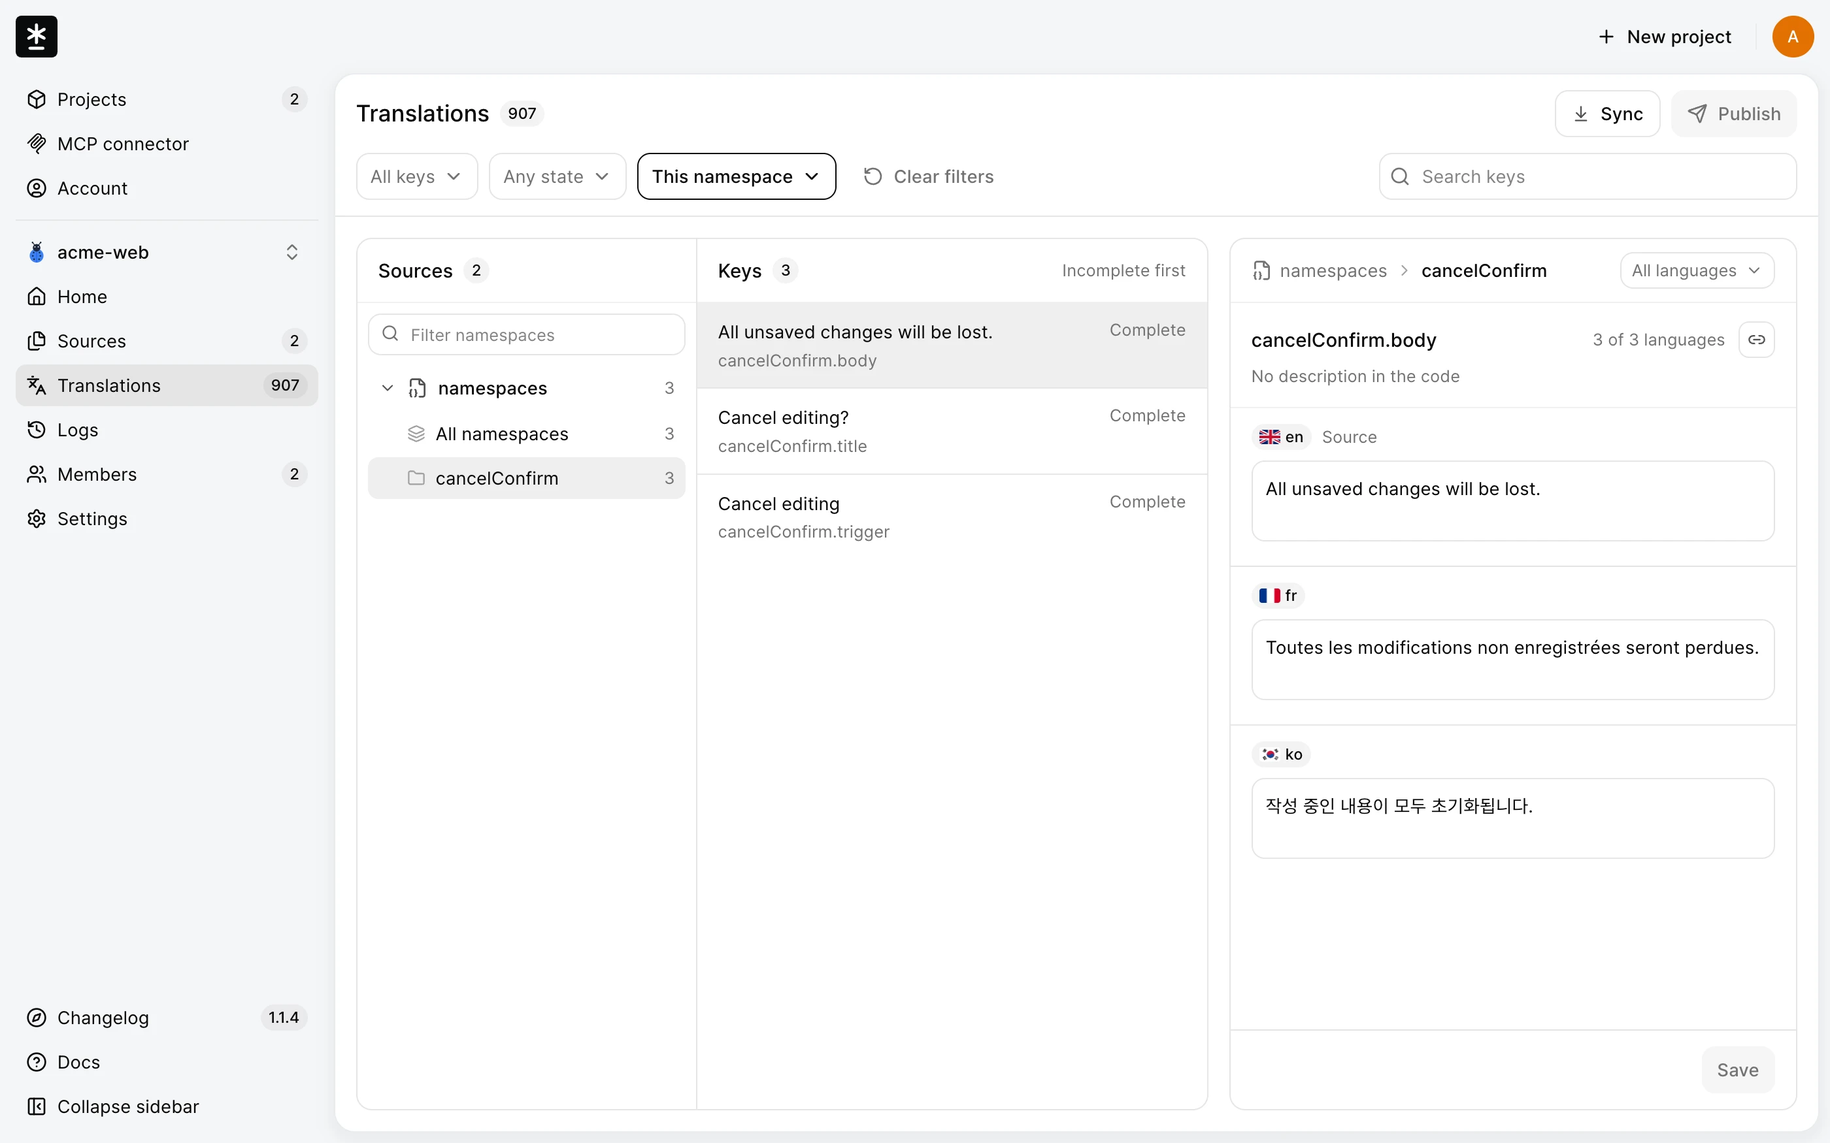
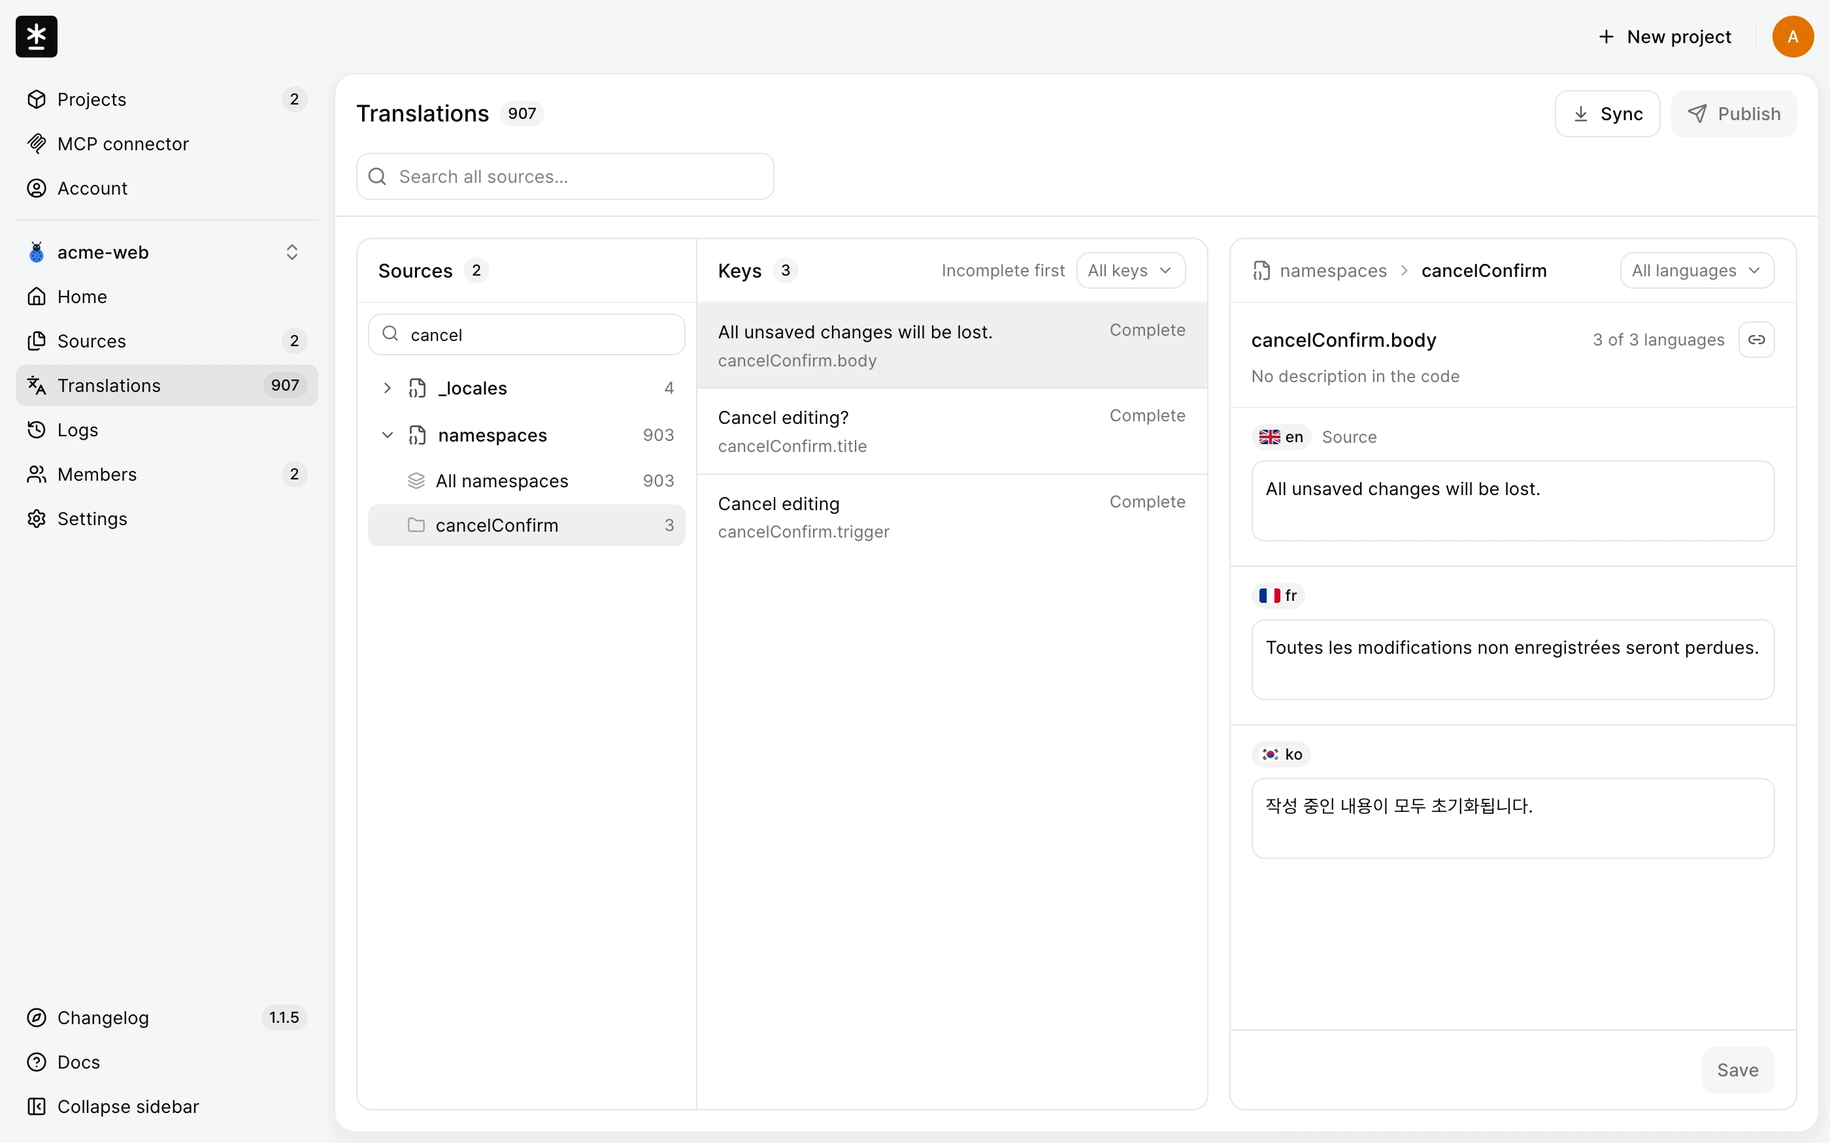
docs(guide): reshoot translation screen cuts for tree ranges and Status

diff --git a/guide/SHOOTING.md b/guide/SHOOTING.md
@@ -65,7 +65,7 @@
 | `/guide/add-sources.webp` | `setup/sources.md#add-sources` | OWNER | Add sources 모달 — 감지 파일 + 미리보기 + Base language(추가 안 함) |
 | `/guide/archive-card.webp` | `setup/archive.md#archive` | OWNER | Settings를 Archive project 카드까지 스크롤(누르지 않음) |
 | `/guide/accept-invitation.webp` | `translate/join.md#join` | EDITOR | 초대 수락 화면(`/invite/<token>`) — dev DB에 심은 초대 1건, 수락 안 함 |
-| `/guide/state-filter.webp` | `translate/edit.md#find-key` | EDITOR | Translations의 State 필터 메뉴 펼침 |
+| `/guide/state-filter.webp` | `translate/edit.md#find-key` | EDITOR | Translations — 키 목록 머리의 Status 필터 메뉴 펼침 |
 | `/guide/home-publish.webp` | `translate/publish.md#preview` | EDITOR | Home — 보낼 변경 1건, 켜진 Publish |
 | `/guide/publish-result.webp` | `translate/publish.md#result` | EDITOR | Publish 결과 `Nothing changed in the files`(GitHub 쓰기 없음) |
 | `/guide/home-paused.webp` | `sync/push.md#deferred` | OWNER | Home — To send 1 · repository updates held |
@@ -88,20 +88,20 @@
 | /guide/push-token-secret.webp | lib/onboarding/workflow.ts | 45d351ca4d9fc6cff70c84d0e784e6e992edba69 | 2560x1600 |
 | /guide/workflow-file.webp | components/settings/ci-card.tsx, components/onboarding/workflow-block.tsx, lib/onboarding/workflow.ts | 8dc8b8e40c8d03d1987042a2753dbd2b7a51a560, e099fcb70b6fca21b04b07c69217a0b2a0018f9e, 45d351ca4d9fc6cff70c84d0e784e6e992edba69 | 2560x1600 |
 | /guide/actions-policy.webp | lib/onboarding/workflow.ts, .github/actions/malmoi-i18n-push/action.yml | 45d351ca4d9fc6cff70c84d0e784e6e992edba69, 559ddc28bcd1c0fa8f4a1946dd15f7e8fcd0f03d | 2560x1600 |
-| /guide/translation-editor.webp | components/translations/workspace/key-list.tsx, components/translations/workspace/locale-panel.tsx | 15863c4d757cecd4c30a482ab7cd3ee1404d7cfb, 7c5ff2cf927ea605f00d572f1e0b1bafc09d0f21 | 2560x1600 |
+| /guide/translation-editor.webp | components/translations/workspace/key-list.tsx, components/translations/workspace/locale-panel.tsx, components/translations/workspace/workspace.tsx, components/translations/workspace/tree-panel.tsx | 44aa3a5d1175c751c8c551b70e3739b692cfb002, d1cdf1a4ed40ae711dcd497e5ab53d1f636e0ca6, 9f09ce7b01ed2e925931caed9574e4a268a7069f, e6ffd8bacdd8839ed55d81a881e8596a00db5856 | 2560x1600 |
 | /guide/publish-preview.webp | components/publish-button.tsx, lib/publish/preview.ts | 883186b35409b04573b0875338f3c50b4be4b67e, 257ebc5a440efdd31731c6426b9851f869a41561 | 2560x1600 |
-| /guide/project-home.webp | app/(edit)/projects/[slug]/(home)/page.tsx, components/home/count-cards.tsx, components/home/meta-column.tsx | 0e806c8c50c48d524682f4ae19e2b3d4baba49eb, b5341e2a907640d75fbf2acdb46223c4645a6e1c, e604a3df5c2d576c3a23eea73ec2ab63eb25bec8 | 2560x1600 |
+| /guide/project-home.webp | app/(edit)/projects/[slug]/(home)/page.tsx, components/home/count-cards.tsx, components/home/meta-column.tsx | 75265bd2c58a5ee2adb12676c1505e0a85fb321f, c07299e669429f92e186871be1b5af5c072196f5, e604a3df5c2d576c3a23eea73ec2ab63eb25bec8 | 2560x1600 |
 | /guide/invite-members.webp | components/members/invite-modal.tsx | 02990e7be3eaa99151caea8a3272f5511f95923c | 2560x1600 |
 | /guide/members.webp | components/members/member-list.tsx, components/members/member-row.tsx, components/members/pending-invitations.tsx | 991ea321fe17d6a550fb2fa40b2b8a7a6116ae7c, 670643ad10a2e9a101d3b2e1123d24cc56fc3ab4, 7c9b9160e6e4fc77dd6277239daaf8c5fa5e196e | 2560x1600 |
 | /guide/sources.webp | components/sources/sources-screen.tsx, components/sources/source-status.tsx | 91c8f8eeb1666d899d9d7c07413dc3a5a7a7a794, 322b6032402ec63dfb1ac84adb5f61466197f0ab | 2560x1600 |
 | /guide/add-sources.webp | components/sources/add-sources-modal.tsx | a5d967e4ae6d9c0ea5e6490d959f5bd8fb3539af | 2560x1600 |
 | /guide/archive-card.webp | components/settings/archive-card.tsx | ad3ac6b92e320b8c701f4a5f89ae79636ee09848 | 2560x1600 |
 | /guide/accept-invitation.webp | app/invite/[token]/page.tsx, components/invite/project-card.tsx, components/signin/auth-layout.tsx | 1acd7ea93339bf382346675e15153911f7e5ff28, f04bd2df388d5f046ad05818553e51c39fd45376, 707e072f943e340d3d4fb9b389ecb39f75d67eb2 | 2560x1600 |
-| /guide/state-filter.webp | components/translations/workspace/filter-menu.tsx, dict:translations.workspace.filters.state.any, dict:translations.workspace.filters.state.unsent, dict:translations.workspace.filters.state.review, dict:translations.workspace.filters.state.new | 8122e89e1cd4f89a9de260f4d4eb875822d168dd, c7274cb43067637368cb3c704ecbb7895c5ae845, 0d09fa0d8c890b48da20aefe409a39eb962b5114, 33a506cf6ec5a56c261838f0a5a3d29cd7f2dacc, 56539cd31aeb7453fb2900c2952b988146fd6127 | 2560x1600 |
-| /guide/home-publish.webp | app/(edit)/projects/[slug]/(home)/page.tsx, components/home/count-cards.tsx, components/publish-button.tsx | 0e806c8c50c48d524682f4ae19e2b3d4baba49eb, b5341e2a907640d75fbf2acdb46223c4645a6e1c, 883186b35409b04573b0875338f3c50b4be4b67e | 2560x1600 |
+| /guide/state-filter.webp | components/translations/workspace/filter-menu.tsx, dict:translations.workspace.filters.state.any, dict:translations.workspace.filters.state.incomplete, dict:translations.workspace.filters.state.unsent, dict:translations.workspace.filters.state.review, dict:translations.workspace.filters.state.new | d3bce959af8d327b21251baf8afc1d3719bdea3c, b823bb9b42b3672439670b5267fe5328d7524380, 387fd1bbc18419e26c612f4acad9213e5073ade4, 0d09fa0d8c890b48da20aefe409a39eb962b5114, 33a506cf6ec5a56c261838f0a5a3d29cd7f2dacc, 56539cd31aeb7453fb2900c2952b988146fd6127 | 2560x1600 |
+| /guide/home-publish.webp | app/(edit)/projects/[slug]/(home)/page.tsx, components/home/count-cards.tsx, components/publish-button.tsx | 75265bd2c58a5ee2adb12676c1505e0a85fb321f, c07299e669429f92e186871be1b5af5c072196f5, 883186b35409b04573b0875338f3c50b4be4b67e | 2560x1600 |
 | /guide/publish-result.webp | components/publish-button.tsx | 883186b35409b04573b0875338f3c50b4be4b67e | 2560x1600 |
-| /guide/home-paused.webp | app/(edit)/projects/[slug]/(home)/page.tsx, components/home/count-cards.tsx, dict:home.cards.held.pending-edits | 0e806c8c50c48d524682f4ae19e2b3d4baba49eb, b5341e2a907640d75fbf2acdb46223c4645a6e1c, e7daa697ea395700d6e0a57f5dc83a59b2b30aa7 | 2560x1600 |
-| /guide/revert-confirm.webp | components/translations/workspace/workspace.tsx, components/translations/edit-loss-banner.tsx | a3bbcc410065d24c409dfb00159bb5b7cd926ee0, a2d467970dd0f205e735b233b89ac467e3cbd7af | 2560x1600 |
+| /guide/home-paused.webp | app/(edit)/projects/[slug]/(home)/page.tsx, components/home/count-cards.tsx, dict:home.cards.held.pending-edits | 75265bd2c58a5ee2adb12676c1505e0a85fb321f, c07299e669429f92e186871be1b5af5c072196f5, e7daa697ea395700d6e0a57f5dc83a59b2b30aa7 | 2560x1600 |
+| /guide/revert-confirm.webp | components/translations/workspace/workspace.tsx, components/translations/edit-loss-banner.tsx | 9f09ce7b01ed2e925931caed9574e4a268a7069f, a2d467970dd0f205e735b233b89ac467e3cbd7af | 2560x1600 |
 | /guide/sync-discard.webp | components/home/sync-button.tsx | 291488b956d5ed29073e941cfb010802b501c67e | 2560x1600 |
 | /guide/logs-event.webp | components/logs/event-dialog.tsx, components/logs/event-detail.tsx | 0165c38aa64249055a9719799656d73b6aa11187, a9b4439ca5ac09eb517ce395d8a8554e3e77ecc2 | 2560x1600 |
 | /guide/account.webp | app/(edit)/account/page.tsx, components/account/profile-picture.tsx, components/account/login-methods.tsx, components/account/github-section.tsx | 0c1aa217dc31719904fc9fd926d8910e49e9b5fb, 398f113d7977abdc5f558f52e70bab28bdce3927, f4338d4aae4e18915e03a1f4bd35e96c2d7f52ba, 4c51c1f75b4f736cfece77b000c560e670b9093c | 2560x1600 |
@@ -150,5 +150,6 @@
 - 2026-09-30 ui-polish(셸 헤더 우측 `New project | 아바타` · LNB 사용자 구역 머리 줄 제거 · 동의 화면 만료 탭 폭) — **셸이 든 컷 전부 재촬영**: 앱 안 컷 22장 + `oauth-consent`(만료 탭이 폼 폭을 채운다) + `mcp-create-token`(stale) + README 두 장(`hero` · `logs`). 그대로 둔 셋: `push-token-secret` · `actions-policy`(GitHub 화면) · `accept-invitation`(셸 밖 골격, 변경 없음). `oauth-consent`의 만료 탭은 `token-grant-fields.tsx`가 그려 `guide:check`가 못 잡았으므로 그 파일을 매핑 소스에 더했다. 사람 사진은 `Avatar` 폴백 모양(이름 색 + 첫 글자 — `Alex Kim` amber · `Jordan Lee` sky)으로 치환했다 — 옛 컷의 주황·`AK` 회색 원은 손으로 만든 값이었다. 셋업: MCP 연결 둘은 가짜 `OAuthConnection` 행 + UI 토큰(원문 미촬영) → 촬영 뒤 행 삭제·UI 폐기(연결·토큰 0) · OWNER 편집 `_locales` `EXT_NAME` fr → paused·Revert·Sync(Cancel) 확인창 → 실제 Revert · ①–③은 `i18n-order-check` 보관 → 복원 · ④는 벽 절 절차대로 일회용 프로젝트(`i18n-format-check` · `Acme web`)를 만들어 찍고 id로 지웠다(사건 3 · 번역 28 · 키 10 · 로케일 3 · 멤버 1 · 표면 1 · 프로젝트 1) · `oauth-consent`는 claude.ai CIMD authorize 요청(Authorize 안 누름) · EDITOR Publish 셋은 `common.cancel` fr `Annuler`→`Abandonner` 저장 → Home·미리보기(PR 안 엶) → `Annuler` 재저장 → Publish(`Nothing differs`) → 결과 촬영. 미전달 0, GitHub 쓰기 없음. README `logs`는 최신 행이 전부 Nightly `Nothing to send`라 Sent·Not sent가 섞인 구간(17:11~)으로 목록을 스크롤해 찍었다(날짜 머리가 컷 밖으로 빠진다). ⚠ **새로 밟은 것**: 목록의 GitHub 계정명은 `Alex Kim`이 아니라 `alex-kim`이다 — 이름과 로그인이 같은 문자열이라 일반 치환이 `Alex Kim`으로 바꾼다(`@alex-kim`·`alex-kim · Pushed`는 따로 먼저 치환). Settings의 Base branch 셀렉트는 첫 렌더에 skeleton이라 값(`dev`)이 뜬 뒤 찍는다. Sync 확인창은 `Checking whether anything is still waiting…`이 사라진 뒤 찍는다. 가짜 push 토큰은 **43자**(base64url)다.
 - 2026-09-30 nightly-sync(Home 메타의 ` · manual`/` · nightly`/` · CI` 트리거 · Logs의 Nightly 행 문장·행위자 라벨 · 온보딩 ④ 설명 문구) — **재촬영**: `project-home` · `home-paused`(OWNER) · `home-publish`(EDITOR) · `logs-event`(같은 사건 `Jordan Lee sent translations to GitHub` · 2 files) · README `logs`(Kind: Publish, 17:11 구간 — Nightly 행에서 `automatic` 칩이 빠졌다). **SHA만 갱신**: `actions-policy` — `action.yml`은 주석과 `::warning` 문자열만 바뀌었고 GitHub 설정 화면(허용 패턴 넷)은 그대로다. **남은 컷: `create-ready`** — 설명 문구가 `messages/en.tsx`에서 바뀌어 `guide:check`엔 안 잡히지만 화면이 달라졌다. 이번 세션에서 `i18n-order-check` 보관 클릭이 자동 모드 분류기(공유 리소스 변경)에 막혀 일회용 프로젝트를 만들지 못했다 — 다음 촬영은 그 보관을 사람이 승인한 뒤 벽 절 절차로 찍는다. 셋업: OWNER `_locales` `EXT_NAME` fr 편집 → paused 촬영 → **Revert to last sent가 꺼져 있었다**(`The last sent version isn't available for every changed language.` — PR #17을 닫아 전달 확인이 무효) → 원래 값 재저장 → OWNER Publish(`Nothing differs`) · EDITOR `common.cancel` fr `Annuler`→`Abandonner` → Home 촬영 → `Annuler` 재저장 → EDITOR Publish(`Nothing differs`). 전후 대조: 미전달 0→0, 열린 Malmoi PR 0, GitHub 쓰기 없음, `bugshot-i18n-test-qa` 사건 433→439(편집·재저장·Publish × 2), `i18n-order-check`는 손대지 않았다(보관 안 됨). EDITOR 표시 이름은 소문자·공백 꼴이라 대소문자 구분 치환이 따로 필요했다. `bugshot-i18n-test-qa3`(base 브랜치 삭제로 실패한 sync)는 Projects 목록에만 보여 이번 컷엔 없다.
 - 2026-09-30 nightly-sync 후속 — `create-ready` **재촬영**(④ 설명 문구 `Every night, Malmoi sends translations not yet sent … or picks up new commits` — `messages/en.tsx`라 매핑 SHA는 그대로다). 사용자 승인으로 벽 절 절차 그대로: `i18n-order-check` 보관 → 일회용 프로젝트(`SinhyeokKang/i18n-format-check` · dev · `locales/{locale}.yml` 한 세트 · `Acme web`/`acme-web` · English) → 토큰 칩을 브라우저에서 만든 43자 가짜 값으로 교체 · `api-url` 줄 제거 → 캡처 → id로 삭제(사건 3 · 번역 28 · 키 10 · 로케일 3 · 멤버 1 · 표면 1 · 프로젝트 1) → 복원. `i18n-order-check` 사건 64→68(이 촬영과 앞선 막힌 시도의 보관·복원 각 2쌍). ⚠ **새로 밟은 것**: 자동 모드 분류기가 보관 클릭·`/projects/new` 진입을 공유 리소스 변경으로, ④ 대화상자 텍스트를 출력하는 것을 자격증명 노출로 막았다 — 보관·생성은 사람의 명시 승인이 필요하고, ④에선 토큰 교체 뒤에도 **대화상자 텍스트를 출력하지 않고** 개수·불리언만 확인한다(40자 넘는 다른 문자열은 액션 핀 SHA 하나).
-- 2026-10-01 ux-drift-unify(상태 낱말 `Unsent`·`Held back` · Home `Held` 배지 · 보류 배너 `Repository updates are held…` · 모달 폭·여백) — **앱 화면 컷 전부 재촬영**(사용자): `public/guide/` 25장 + README 두 장(`hero` · `logs`). 그대로 둔 둘: `push-token-secret` · `actions-policy`(GitHub 화면, `guide:check`에 안 떴다). 셋업: OWNER `_locales` `EXT_NAME` fr 편집 → `home-paused`·`sync-discard`(Cancel)·`revert-confirm`(`?scope=source`) → 실제 Revert로 복원(이번엔 Revert가 켜져 있었다) · MCP 연결 둘은 가짜 `OAuthConnection` 행 → 촬영 뒤 id로 삭제 · `oauth-consent`는 claude.ai CIMD authorize 요청(Authorize 안 누름, Translate & publish 하나 체크) · ①–③은 OWNER 프로젝트가 둘이라 **보관 없이** 진입 · ④는 벽 절 절차대로 일회용 프로젝트(`i18n-format-check` · `Acme web`)를 만들어 찍고 id로 지웠다(사건 3 · 번역 28 · 키 10 · 로케일 3 · 멤버 1 · 표면 1 · 프로젝트 1) · EDITOR `common.cancel` fr `Annuler`→`Abandonner` → `home-publish`·`publish-preview`(PR 안 엶) → `Annuler` 재저장 → Publish(`Nothing differs`) → `publish-result` · 초대 1건(`i18n-order-check`, EDITOR 주소)을 심어 `accept-invitation`을 찍고 수락 없이 id로 지웠다. 전후 대조: 미전달 0→0, OAuth 연결 0→0, 프로젝트 2→2, GitHub 쓰기 없음, `bugshot-i18n-test-qa` 사건 447→452(편집·Revert · 편집·재저장·Publish), `i18n-order-check` 72→72. README `logs`는 Kind: Publish 목록을 17:11 행부터 스크롤해 Nothing to send · Sent · Held back이 함께 보이게 찍었다. ⚠ **새로 밟은 것**: ①의 행 머리 `SinhyeokKang · Pushed …`는 계정명이 **별도 텍스트 노드**라 `SinhyeokKang · ` 꼴 치환이 안 걸리고 일반 치환이 `Alex Kim`으로 바꾼다 — 대화상자 안의 그 노드만 `alex-kim`으로 다시 바꾼다. 번역 화면 뒤 목록에 `localhost is exempt`(번역 값)가 있어 `localhost` 원문 검사가 걸린다 — 컷 밖 번역 값이라 그대로 찍었다. OWNER에게 다른 QA가 만든 MCP 토큰이 있다 — `mcp-connector`의 토큰 카드는 그 토큰을 그대로 찍었고(원문 없음) 만들거나 회전하지 않았다. 번역 화면의 `This namespace`·`This source` 범위는 이제 소스 트리도 그 범위로 줄인다(`hero`·`translation-editor`의 트리가 `cancelConfirm` 하나다). 초대 수락 화면의 주소는 이번에도 `o***@…` 꼴이었다.
+- 2026-10-01 ux-drift-unify(상태 낱말 `Unsent`·`Held back` · Home `Held` 배지 · 보류 배너 `Repository updates are held…` · 모달 폭·여백) — **앱 화면 컷 전부 재촬영**(사용자): `public/guide/` 25장 + README 두 장(`hero` · `logs`). 그대로 둔 둘: `push-token-secret` · `actions-policy`(GitHub 화면, `guide:check`에 안 떴다). 셋업: OWNER `_locales` `EXT_NAME` fr 편집 → `home-paused`·`sync-discard`(Cancel)·`revert-confirm` → 실제 Revert로 복원(이번엔 Revert가 켜져 있었다) · MCP 연결 둘은 가짜 `OAuthConnection` 행 → 촬영 뒤 id로 삭제 · `oauth-consent`는 claude.ai CIMD authorize 요청(Authorize 안 누름, Translate & publish 하나 체크) · ①–③은 OWNER 프로젝트가 둘이라 **보관 없이** 진입 · ④는 벽 절 절차대로 일회용 프로젝트(`i18n-format-check` · `Acme web`)를 만들어 찍고 id로 지웠다(사건 3 · 번역 28 · 키 10 · 로케일 3 · 멤버 1 · 표면 1 · 프로젝트 1) · EDITOR `common.cancel` fr `Annuler`→`Abandonner` → `home-publish`·`publish-preview`(PR 안 엶) → `Annuler` 재저장 → Publish(`Nothing differs`) → `publish-result` · 초대 1건(`i18n-order-check`, EDITOR 주소)을 심어 `accept-invitation`을 찍고 수락 없이 id로 지웠다. 전후 대조: 미전달 0→0, OAuth 연결 0→0, 프로젝트 2→2, GitHub 쓰기 없음, `bugshot-i18n-test-qa` 사건 447→452(편집·Revert · 편집·재저장·Publish), `i18n-order-check` 72→72. README `logs`는 Kind: Publish 목록을 17:11 행부터 스크롤해 Nothing to send · Sent · Held back이 함께 보이게 찍었다. ⚠ **새로 밟은 것**: ①의 행 머리 `SinhyeokKang · Pushed …`는 계정명이 **별도 텍스트 노드**라 `SinhyeokKang · ` 꼴 치환이 안 걸리고 일반 치환이 `Alex Kim`으로 바꾼다 — 대화상자 안의 그 노드만 `alex-kim`으로 다시 바꾼다. 번역 화면 뒤 목록에 `localhost is exempt`(번역 값)가 있어 `localhost` 원문 검사가 걸린다 — 컷 밖 번역 값이라 그대로 찍었다. OWNER에게 다른 QA가 만든 MCP 토큰이 있다 — `mcp-connector`의 토큰 카드는 그 토큰을 그대로 찍었고(원문 없음) 만들거나 회전하지 않았다. 번역 화면의 `This namespace`·`This source` 범위는 이제 소스 트리도 그 범위로 줄인다(`hero`·`translation-editor`의 트리가 `cancelConfirm` 하나다). 초대 수락 화면의 주소는 이번에도 `o***@…` 꼴이었다.
 - 2026-10-01 sync-lock(Sync Dialog가 진행·결과까지 든다 · 적재 lease 배너·거부 Dialog) — stale 다섯 전부 **재촬영 없이 SHA만 갱신**: `project-home`·`home-publish`·`home-paused`(`page.tsx`는 `loadWriteLock` 로더와 `HomeActions`의 `writeLock` prop뿐 — lease가 없으면 Home은 그대로다) · `revert-confirm`(`workspace.tsx`는 결과 띠·`SlowNotice`를 걷고 `SyncLockBanner`·`SyncLockDialog`를 더했다 — 둘 다 lease·거부가 없으면 렌더하지 않는다) · `sync-discard`(바뀐 것은 진행·결과 단계다. 컷이 보이는 확인 단계는 설명문·경고 블록·푸터 마크업이 같고, 미전달 0 상태의 확인 단계를 1280×800에서 실측해 Dialog 폭 440·머리·X·푸터가 기존 컷과 같음을 확인했다 — 편집을 만들지 않았다).
+- 2026-10-02 translation-tree-range(툴바는 검색 하나 · Status 필터가 키 목록 머리로 · 트리가 범위이고 노드를 숨기지 않는다 · `Complete` 걷고 `Incomplete` 추가) — **재촬영**: `translation-editor`·`state-filter`(EDITOR, `Jordan Lee` sky) · `revert-confirm`(OWNER) · README `hero`(OWNER, 1400×875). 트리가 이제 전 네임스페이스를 보이므로 `translation-editor`·`state-filter`·`hero`는 `Filter namespaces`에 `cancel`을 넣어 `cancelConfirm`이 보이게 찍었다(`?ns=cancelConfirm` + `cancelConfirm.body` 선택). `state-filter` 매핑에 `filters.state.incomplete`를 더했다(`any`의 값이 `All keys`로 바뀌었다). `translation-editor` 매핑에 `workspace.tsx`·`tree-panel.tsx`를 더했다 — 트리와 툴바가 그 둘에서 그려져 `guide:check`가 못 잡았다. **SHA만 갱신** 셋: `project-home`·`home-publish`·`home-paused` — `count-cards.tsx`·`page.tsx`는 카드 링크의 착지 소스(`cardLandings`)와 주석뿐이다. 그대로 둔 둘: `workflow-file`·`create-ready`(이번 변경과 무관한 기존 stale). 셋업: OWNER `_locales` `EXT_NAME` fr 편집 → **Revert가 꺼져 있었다**(전달 확인 무효) → 원래 값 재저장 → OWNER Publish(`Nothing differs` → `Nothing changed in the files`) → 새 편집 → 확인창 촬영 → 실제 Revert. 전후: 미전달 0→0, GitHub 쓰기 없음, `bugshot-i18n-test-qa` 사건 466→471(편집·재저장·Publish·편집·Revert), `i18n-order-check` 72→72. README의 `translation-editor`는 `public/guide/` 같은 파일이다(README 전용 사본 없음).
